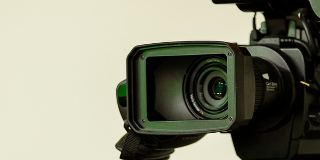
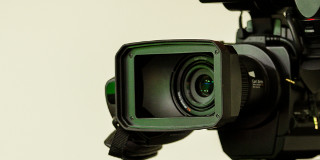
New image sizes.

diff --git a/assets/css/style-alt.css b/assets/css/style-alt.css
@@ -563,9 +563,7 @@ footer {
   z-index: -1;
 }
 .twitter-circle {
-  position: absolute;
-  left: 15px;
-  top: 15px;
+    margin-top:-42px;
   font-size: 30px;
   color: white;
 }
@@ -638,4 +636,12 @@ footer {
   font-family: 'FontAwesome';
   content: '\f105';
   margin: 0 5px 0 -15px;
+}
+
+.blogpost > p > img{
+    display: block;
+    margin-left: auto;
+    margin-right: auto;
+    padding-top: 10px;
+    padding-bottom: 10px;
 }

diff --git a/blog/_posts/2013-11-26-pybossa-cache.md b/blog/_posts/2013-11-26-pybossa-cache.md
@@ -3,8 +3,8 @@ title: Adding a load balanced & high-availability cache to PyBossa
 template: entry
 slug: pybossa-cache
 icon: balance
-icon_author: Timm Nüchter
-icon_url: http://www.flickr.com/photos/t-klick/10122172655/
+icon_author: Felipe Gabaldón
+icon_url: https://www.flickr.com/photos/felipe_gabaldon/4334984556
 tags: "cache, high-availability, load balance, crowdcrafting, PyBossa"
 location: Madrid, Spain 
 meta_description: Adding a load balanced & high-availability cache to PyBossa

diff --git a/blog/_posts/2013-09-23-video-tutorial.md b/blog/_posts/2013-09-23-video-tutorial.md
@@ -3,8 +3,8 @@ title: Shooting and Editing videos in GNU/Linux
 template: entry
 slug: video-tutorial
 icon: film
-icon_author: Lenny Baker
-icon_url: http://www.flickr.com/photos/lmbaker3/5903298450/
+icon_author: Rami
+icon_url: https://www.flickr.com/photos/rhk313/4846377172
 tags: video, open source, tutorial, shuttleworth, tools, crowdcrafting, PyBossa
 location: Madrid, Spain 
 meta_description: How to make a short film using only open source tools

diff --git a/blog/_posts/2014-02-26-reinventing-the-wheel.md b/blog/_posts/2014-02-26-reinventing-the-wheel.md
@@ -3,8 +3,8 @@ title: Reinventing the wheel
 template: entry
 slug: reinventing-the-wheel
 icon: wheel
-icon_author: Stig Nygaard 
-icon_url: http://www.flickr.com/photos/stignygaard/4240882886/in/photostream/
+icon_author: Rego Korosi
+icon_url: https://www.flickr.com/photos/korosirego/4849943530
 tags: citizen science, open source, PyBossa, evolution, discussion
 location: London, United Kingdom 
 meta_description: Reinventing the wheel

diff --git a/blog/_posts/2014-07-04-commandline-candy-for-pybossa.md b/blog/_posts/2014-07-04-commandline-candy-for-pybossa.md
@@ -8,6 +8,7 @@ icon_url: https://www.flickr.com/photos/gentagrafie/12723952215/
 tags: citizen science, open source, PyBossa, tools
 location: Madrid, Spain
 meta_description: Command line candy for PyBossa
+headline: "Managing a PyBossa project was never so easy."
 layout: blog
 ---
 
